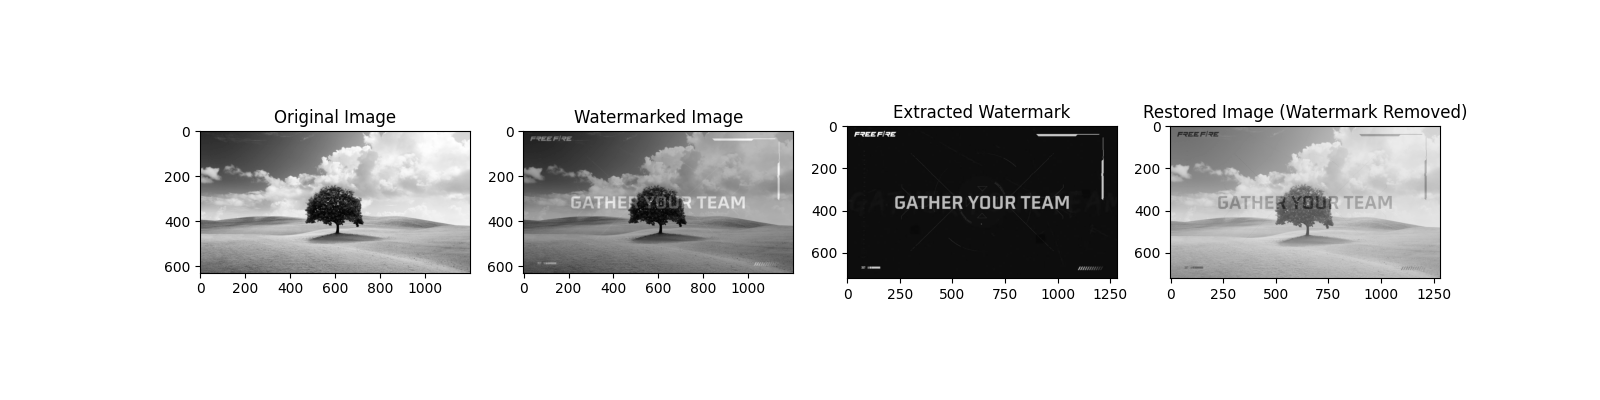
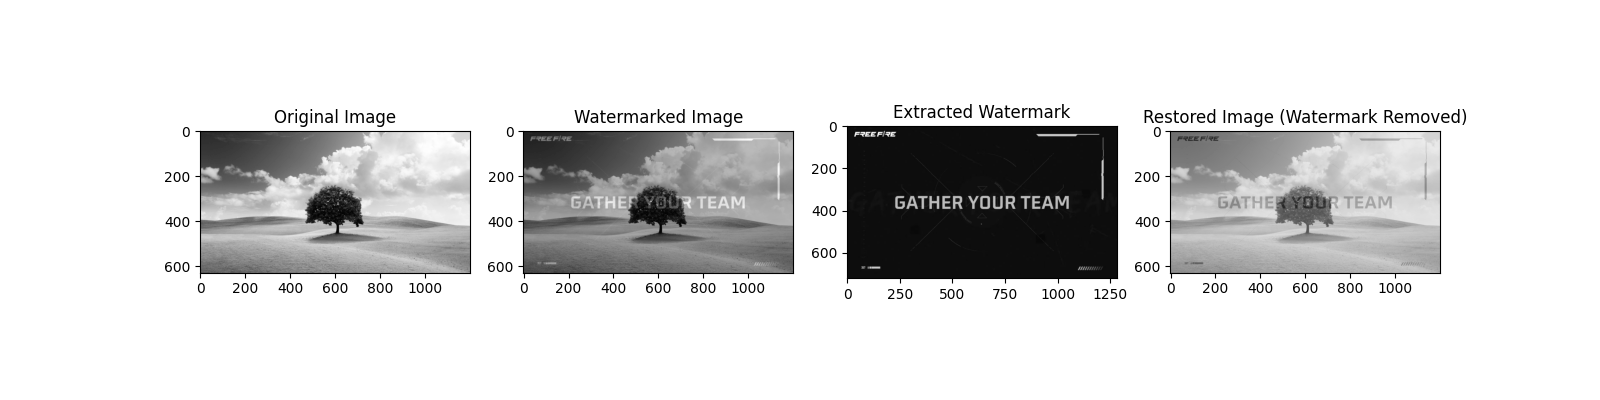
added remove watermark + compare original to restored/watermarked_image for all cases

diff --git a/Proiect/main.py b/Proiect/main.py
@@ -155,7 +155,6 @@ def compare_origina_restored(original, watermarked, name_of_file):
         original_img = original_img.convert('RGB')
     if watermarked_img.mode != 'RGB':
         watermarked_img = watermarked_img.convert('RGB')
-    watermarked_img.save("watermarked_image_test.png")
 
     if original_img.mode != watermarked_img.mode:
         watermarked_img = watermarked_img.convert(original_img.mode)
@@ -174,7 +173,7 @@ if __name__ == "__main__":
     # watermark_image = datasets.face(gray=True)
 
     host_image = Image.open("image.jpg")
-    watermark_image = Image.open("image.jpg")
+    watermark_image = Image.open("watermark2.jpg")
     gray_host_image = host_image.convert("L")
     gray_host_image_np = np.array(gray_host_image)
     gray_watermark_image = watermark_image.convert("L")
@@ -204,8 +203,8 @@ if __name__ == "__main__":
     plt.imshow(restored_image, cmap='gray')
     plt.title('Restored Image (Watermark Removed)')
 
-    plt.savefig("image + image.png")
+    plt.savefig("image + watermark2.png")
     plt.show()
 
-    compare_origina_restored(gray_host_image_np, restored_image, "original vs restored_image")
-    compare_origina_restored(gray_host_image_np, watermarked_image, "original vs watermarked_image")
+    compare_origina_restored(gray_host_image_np, restored_image, "original vs restored_image (image + watermark2)")
+    compare_origina_restored(gray_host_image_np, watermarked_image, "original vs watermarked_image (image + watermark2)")
